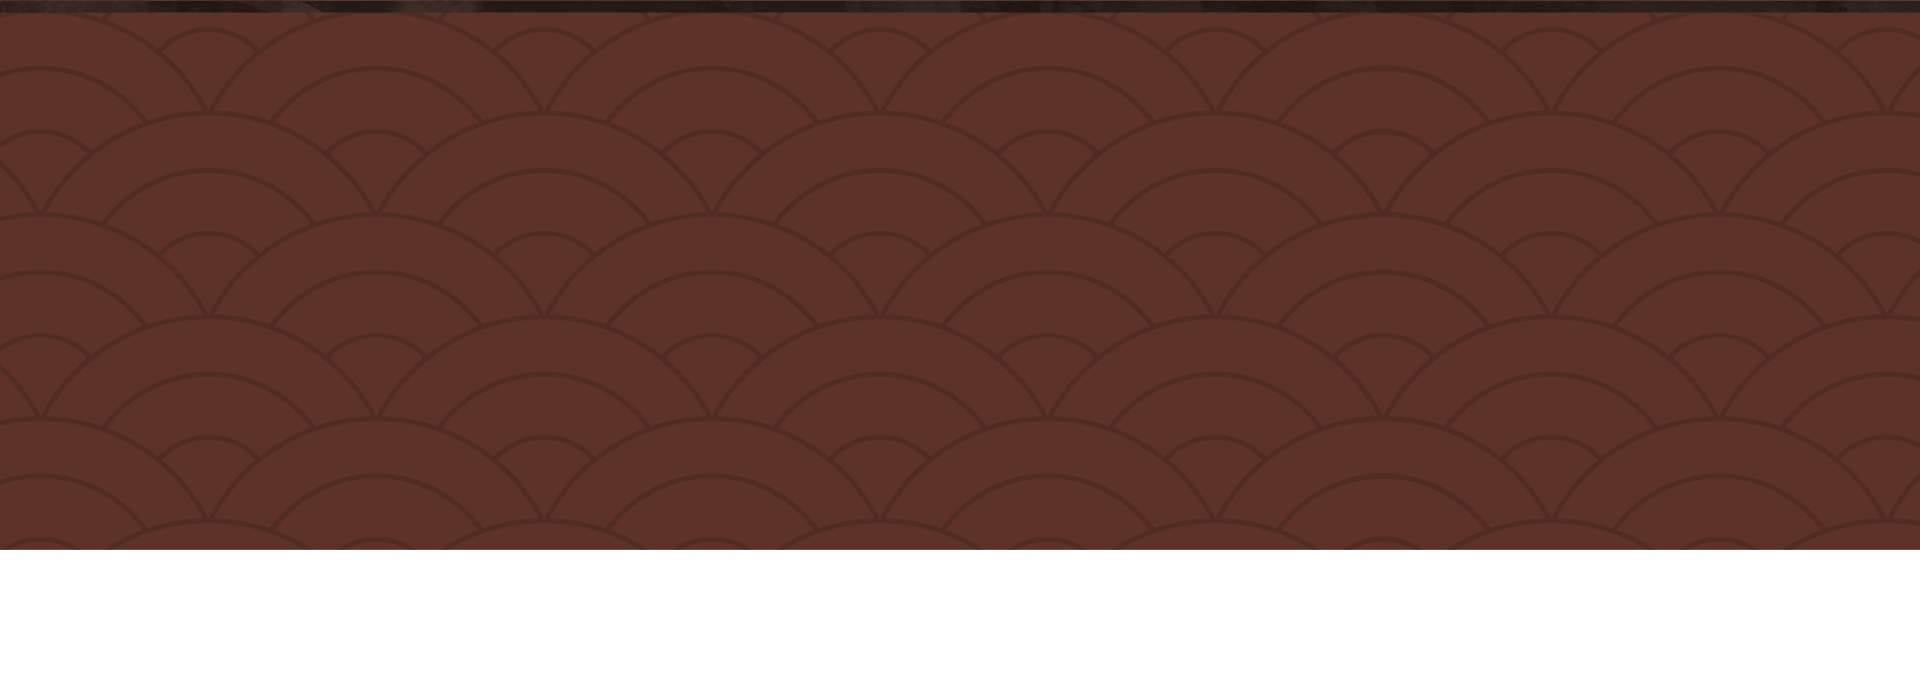
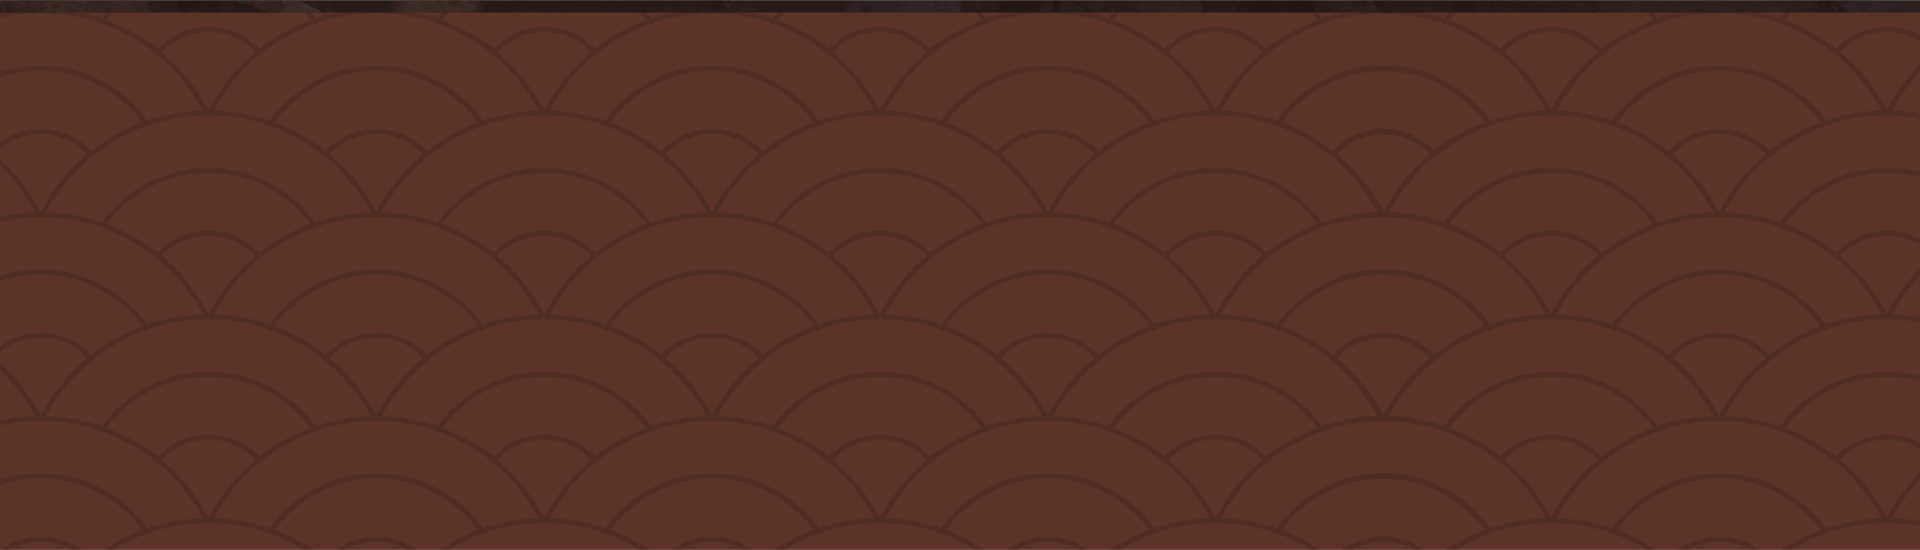
ゲームWeb フッターの追加

diff --git a/src/components/game/footer_game.vue b/src/components/game/footer_game.vue
@@ -1,0 +1,56 @@
+<template>
+  <footer class="footer_game">
+    <nav class="footerNav">
+      <a v-scroll-to="'#story'">
+        <img src="@/assets/gamepage/フッター/story_foot.png" alt="">
+      </a>
+      <a v-scroll-to="'#exorcism'">
+        <img src="@/assets/gamepage/フッター/exorcism_foot.png" alt="">
+      </a>
+      <a v-scroll-to="'#character'">
+        <img src="@/assets/gamepage/フッター/character_foot.png" alt="">
+      </a>
+      <a v-scroll-to="'#symbol'">
+        <img src="@/assets/gamepage/フッター/symbol_foot.png" alt="">
+      </a>
+    </nav>
+    <div class="pjLink">
+      <router-link to="/"/>
+      <img src="@/assets/gamepage/フッター/PJボタン.png" alt="">
+    </div>
+    <small>&copy; 2021 佐竹プロジェクト All rights reserved</small>
+  </footer>
+</template>
+
+<style scoped>
+.footer_game{
+  display: flex;
+  flex-direction: column;
+  justify-content: space-evenly;
+  height: 25vh;
+  background: url(~@/assets/gamepage/フッター/フッター背景.png) top center no-repeat;
+  color: #FFFFFF;
+  text-align: center;
+}
+
+.footerNav{
+  display: flex;
+  flex-direction: row;
+  justify-content: space-evenly;
+}
+
+.pjLink{
+  position: relative;
+  max-width: 300px;
+  margin-left: auto;
+  margin-right: auto;
+}
+
+.pjLink a{
+  position: absolute;
+  top: 0;
+  left: 0;
+  width: 100%;
+  height: 100%;
+}
+</style>

diff --git a/src/views/akuryoubuster.vue b/src/views/akuryoubuster.vue
@@ -5,6 +5,7 @@
     <Exorcism/>
     <Character/>
     <Symbol/>
+    <FooterGame/>
   </div>
 </template>
 
@@ -14,6 +15,7 @@ import Story from '@/components/game/story.vue'
 import Exorcism from '@/components/game/exorcism.vue'
 import Character from '@/components/game/character.vue'
 import Symbol from '@/components/game/symbol.vue'
+import FooterGame from '@/components/game/footer_game.vue'
 
 export default {
   components: {
@@ -22,6 +24,7 @@ export default {
     Exorcism,
     Character,
     Symbol,
+    FooterGame
   }
 }
 </script>
